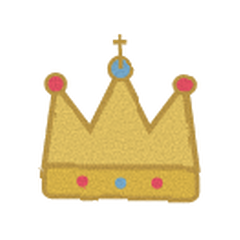
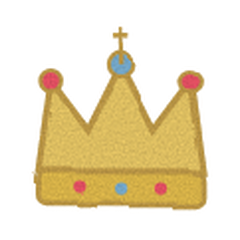
Bigger stickers, and keep them inside the page
Less padding inside each sticker's square canvas (226 of 240 rather than
208), plus larger cells in the picker and a larger sticker on the letter.

The rotated sticker's bounding box is ~17% wider than the sticker itself,
so at the previous overhang the enlarged one pushed past the screen edge
and gave the reading view a 6px horizontal scroll. Pulled it in, and added
overflow-x: hidden so no decoration can do that again.

Changed region(s): [[0.1167, 0.0875, 0.875, 0.9042]]

diff --git a/src/components/letter.css b/src/components/letter.css
@@ -7,6 +7,7 @@
   flex-direction: column;
   background: var(--pink);
   overflow-y: auto;
+  overflow-x: hidden;
   overscroll-behavior: contain;
   padding: max(10px, env(safe-area-inset-top)) 14px calc(18px + env(safe-area-inset-bottom));
 }
@@ -113,9 +114,9 @@
 /* ---------------------------------------------------------- the sticker */
 .note__sticker {
   position: absolute;
-  right: -10px;
-  bottom: -20px;
-  width: 76px;
+  right: -2px;
+  bottom: -24px;
+  width: 94px;
   height: auto;
   pointer-events: none;
   filter: drop-shadow(0 6px 8px rgba(41, 76, 104, 0.2));
@@ -245,9 +246,9 @@
     padding: 40px 40px 104px;
   }
   .note__sticker {
-    right: -14px;
-    bottom: -24px;
-    width: 88px;
+    right: -18px;
+    bottom: -28px;
+    width: 108px;
   }
 }
 

diff --git a/src/components/write.css b/src/components/write.css
@@ -80,9 +80,9 @@
 .preview__sticker {
   position: absolute;
   z-index: 6;
-  right: -5%;
-  bottom: -10%;
-  width: 24%;
+  right: -6%;
+  bottom: -12%;
+  width: 30%;
   height: auto;
   transform: rotate(-11deg);
   pointer-events: none;
@@ -324,7 +324,7 @@
 
 .stickers__grid {
   display: grid;
-  grid-template-columns: repeat(auto-fill, minmax(54px, 1fr));
+  grid-template-columns: repeat(auto-fill, minmax(64px, 1fr));
   gap: 6px;
 }
 
@@ -333,7 +333,7 @@
   place-items: center;
   width: 100%;
   aspect-ratio: 1;
-  padding: 6px;
+  padding: 4px;
   border-radius: 12px;
   border: 2px solid transparent;
   background: transparent;

diff --git a/tools/install_assets.py b/tools/install_assets.py
@@ -218,7 +218,7 @@ def main():
     # and padding to a square means every sticker occupies the same box, and
     # one width in CSS sizes all of them identically.
     STICKER_BOX = 240
-    STICKER_ART = 208  # longest side, leaving a little air inside the square
+    STICKER_ART = 226  # longest side, leaving a little air inside the square
     for name, idx in {**{f'sticker-{k}': v for k, v in STICKERS_IT.items()},
                       **{f'sticker-{k}': v for k, v in STICKERS_UK.items()}}.items():
         im = raw(idx)
